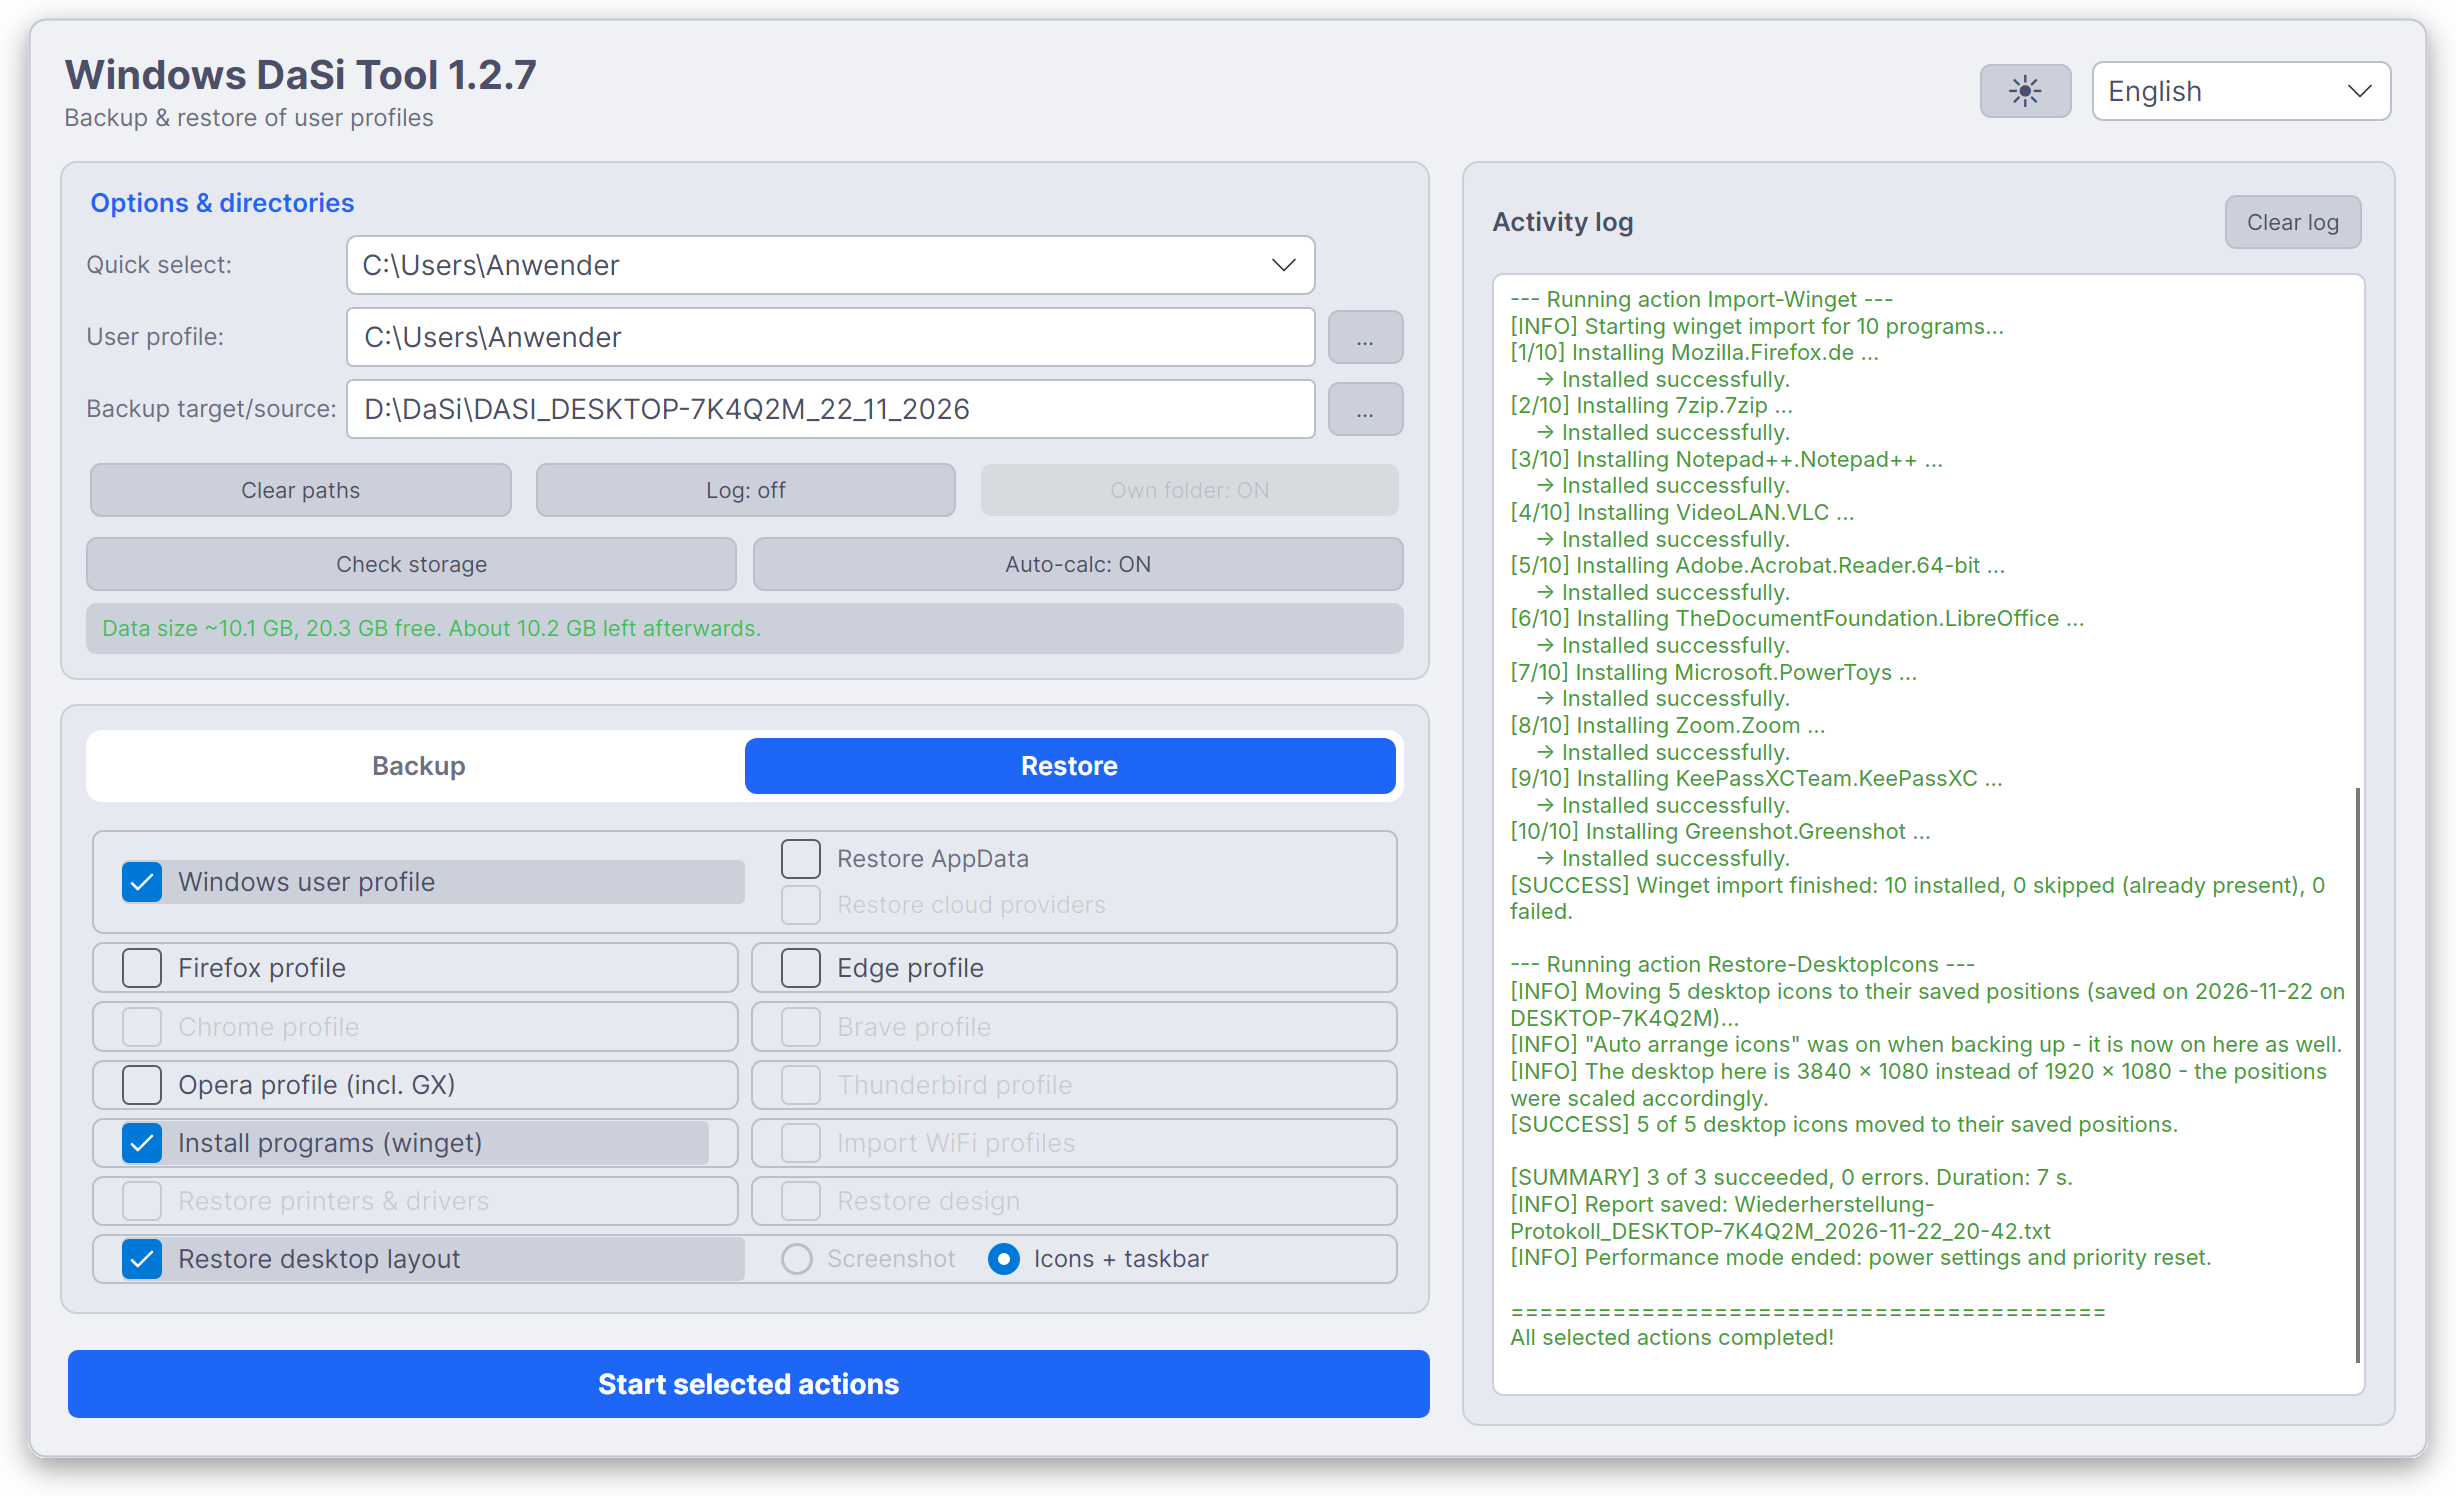
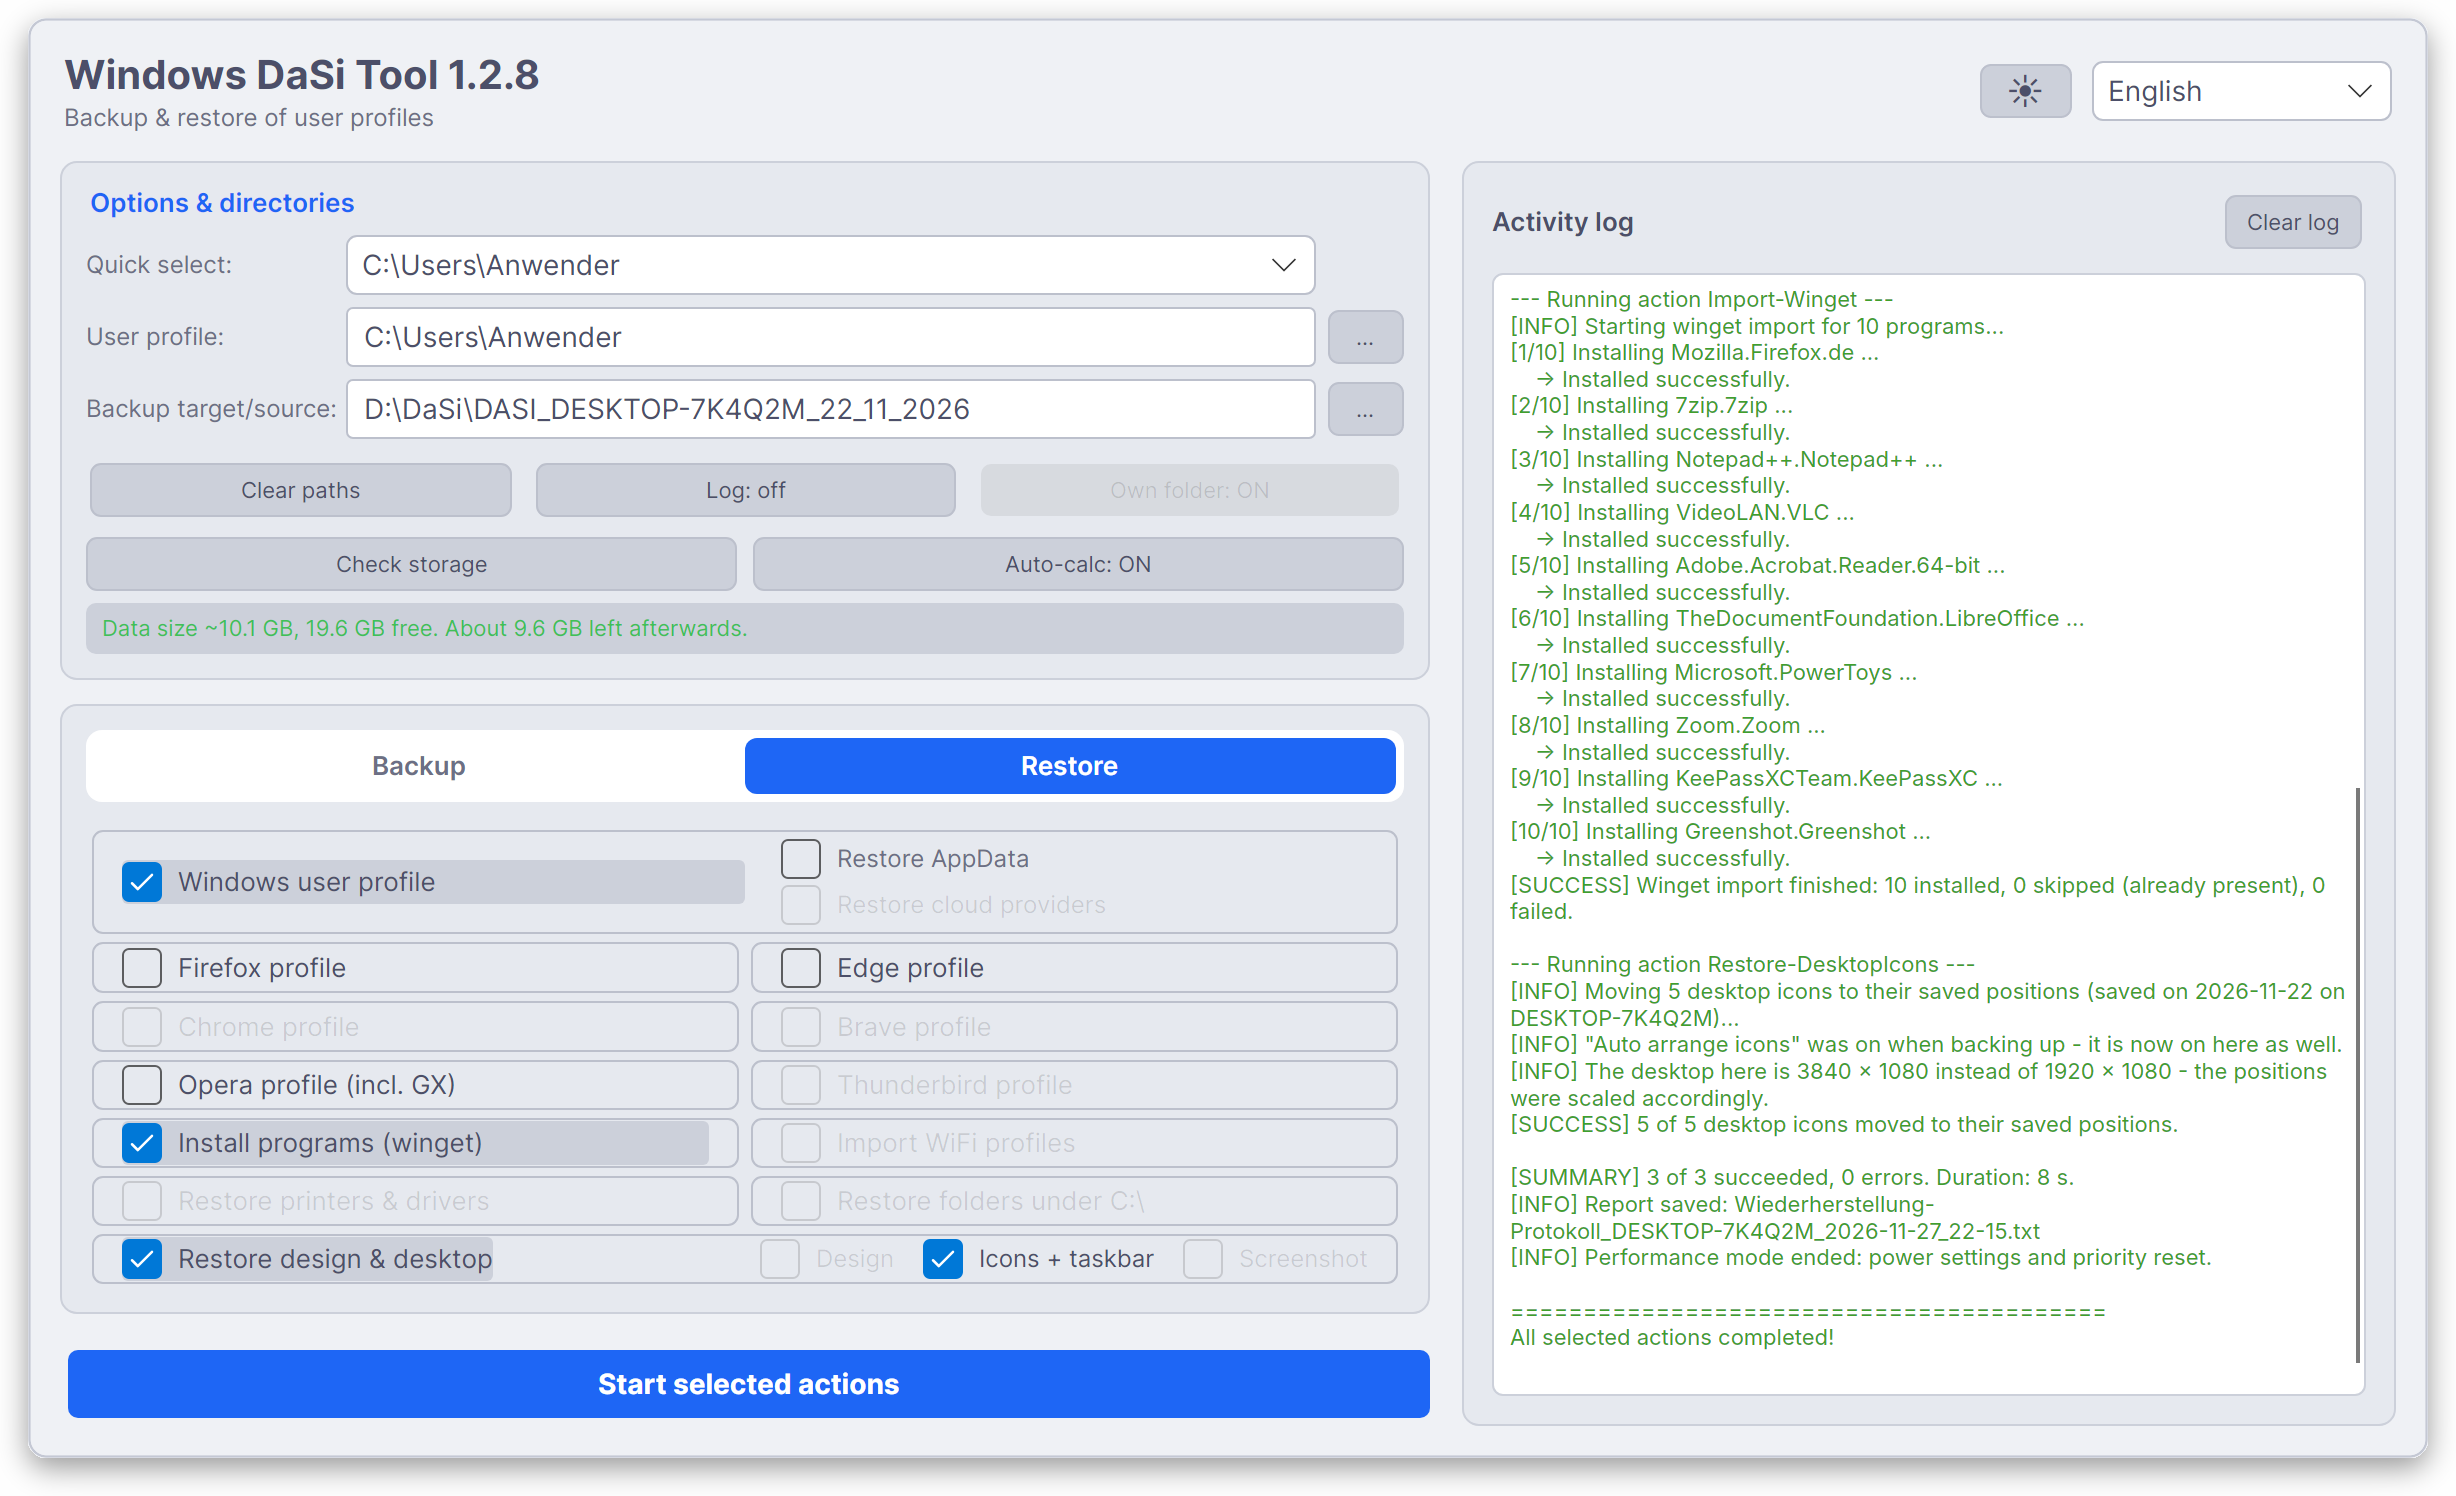
Version 1.2.8: Nummer, CHANGELOG, README-Bilder
Hauptfenster, Moduswechsel und helle englische Ansicht neu aufgenommen
(Kacheln "Ordner unter C:\" und "Design & Desktop"), dazu die
Auswahlliste der Ordner unter C:\ als neues Bild in der README.

Claude-Session: https://claude.ai/code/session_0196PaXCKSmKiwGSNr3Nwqvz

Changed region(s): [[0.1238, 0.7995, 0.4951, 0.861], [0.1238, 0.3997, 0.3094, 0.4305], [0.7736, 0.7995, 0.8355, 0.8302]]

diff --git a/ViewModels/MainWindowViewModel.cs b/ViewModels/MainWindowViewModel.cs
@@ -18,7 +18,7 @@ namespace WindowsDaSiTool.ViewModels;
 public partial class MainWindowViewModel : ObservableObject
 {
     // ---- Konstanten (entsprechen den $script:-Variablen) ----
-    private const string VersionString = "1.2.7";
+    private const string VersionString = "1.2.8";
 
     private readonly CancellationTokenState _cancel = new();
     private readonly ProcessRunner _runner;

diff --git a/README.md b/README.md
@@ -6,7 +6,7 @@
 
 **Datensicherung und Wiederherstellung von Windows-Benutzerprofilen — portabel, schnell, ohne Installation.**
 
-[![Version](https://img.shields.io/badge/Version-1.2.7-blue)](https://github.com/Tinnitus97/Windows.DaSi.Tool/releases)
+[![Version](https://img.shields.io/badge/Version-1.2.8-blue)](https://github.com/Tinnitus97/Windows.DaSi.Tool/releases)
 [![Platform](https://img.shields.io/badge/Windows-10%20%7C%2011-0078D4)](https://github.com/Tinnitus97/Windows.DaSi.Tool)
 [![.NET](https://img.shields.io/badge/.NET-10%20LTS-512BD4)](https://dotnet.microsoft.com/download/dotnet/10.0)
 [![License](https://img.shields.io/badge/Lizenz-MIT-green)](LICENSE)
@@ -73,7 +73,10 @@ Punkte, die nichts zu tun hätten, sind **ausgegraut** und lassen sich nicht ank
 - **Wiederherstellen:** Jeder Punkt ist gesperrt, den die gewählte Sicherung nicht
   enthält. Unten im Bild: Gesichert wurden Profil samt AppData, Firefox, Edge,
   Opera, die Programmliste und die Symbolpositionen des Desktops. Alles andere ist
-  grau, auch die Auswahl *Screenshot*. *WLAN-Profile* sind nur frei, wenn die
+  grau, auch *Ordner unter C:\* sowie *Design* und *Screenshot* in der Kachel
+  *Design & Desktop* – dort bleibt nur *Symbole + Taskleiste* angehakt. Die oben
+  vorgemerkten Ordner unter `C:\` gelten nur fürs Sichern und sind beim Umschalten
+  verworfen. *WLAN-Profile* sind nur frei, wenn die
   Sicherung welche enthält und dieser PC einen WLAN-Adapter hat, in den sie sich
   einspielen lassen.
 
@@ -211,6 +214,10 @@ verworfen.
   in der Sicherung liegt (alles vorgewählt), und schreibt es nach `C:\<Name>` zurück.
   Gibt es den Ordner dort schon, wird er ergänzt: Eigenes bleibt, und ist eine Datei
   dort neuer als in der Sicherung, bleibt sie ebenfalls.
+
+<div align="center">
+<img src="docs/images/ordner-auswahl.png" alt="Auswahlliste der Ordner unter C:\ mit Größen, Windows-Standardordner ausgeblendet" width="460">
+</div>
 
 ### Design & Desktop: Wo lag was?
 

diff --git a/CHANGELOG.md b/CHANGELOG.md
@@ -7,7 +7,7 @@ die Versionierung folgt [Semantic Versioning](https://semver.org/lang/de/).
 
 ---
 
-## [Unveröffentlicht]
+## [1.2.8] - 2026-11-27
 
 ### Neu
 
@@ -852,6 +852,7 @@ PowerShell/WPF-Skripts als native C#-Anwendung mit Avalonia.
 
 ---
 
+[1.2.8]: https://github.com/Tinnitus97/Windows.DaSi.Tool/releases/tag/1.2.8
 [1.2.7]: https://github.com/Tinnitus97/Windows.DaSi.Tool/releases/tag/1.2.7
 [1.2.6]: https://github.com/Tinnitus97/Windows.DaSi.Tool/releases/tag/1.2.6
 [1.2.5]: https://github.com/Tinnitus97/Windows.DaSi.Tool/releases/tag/1.2.5
